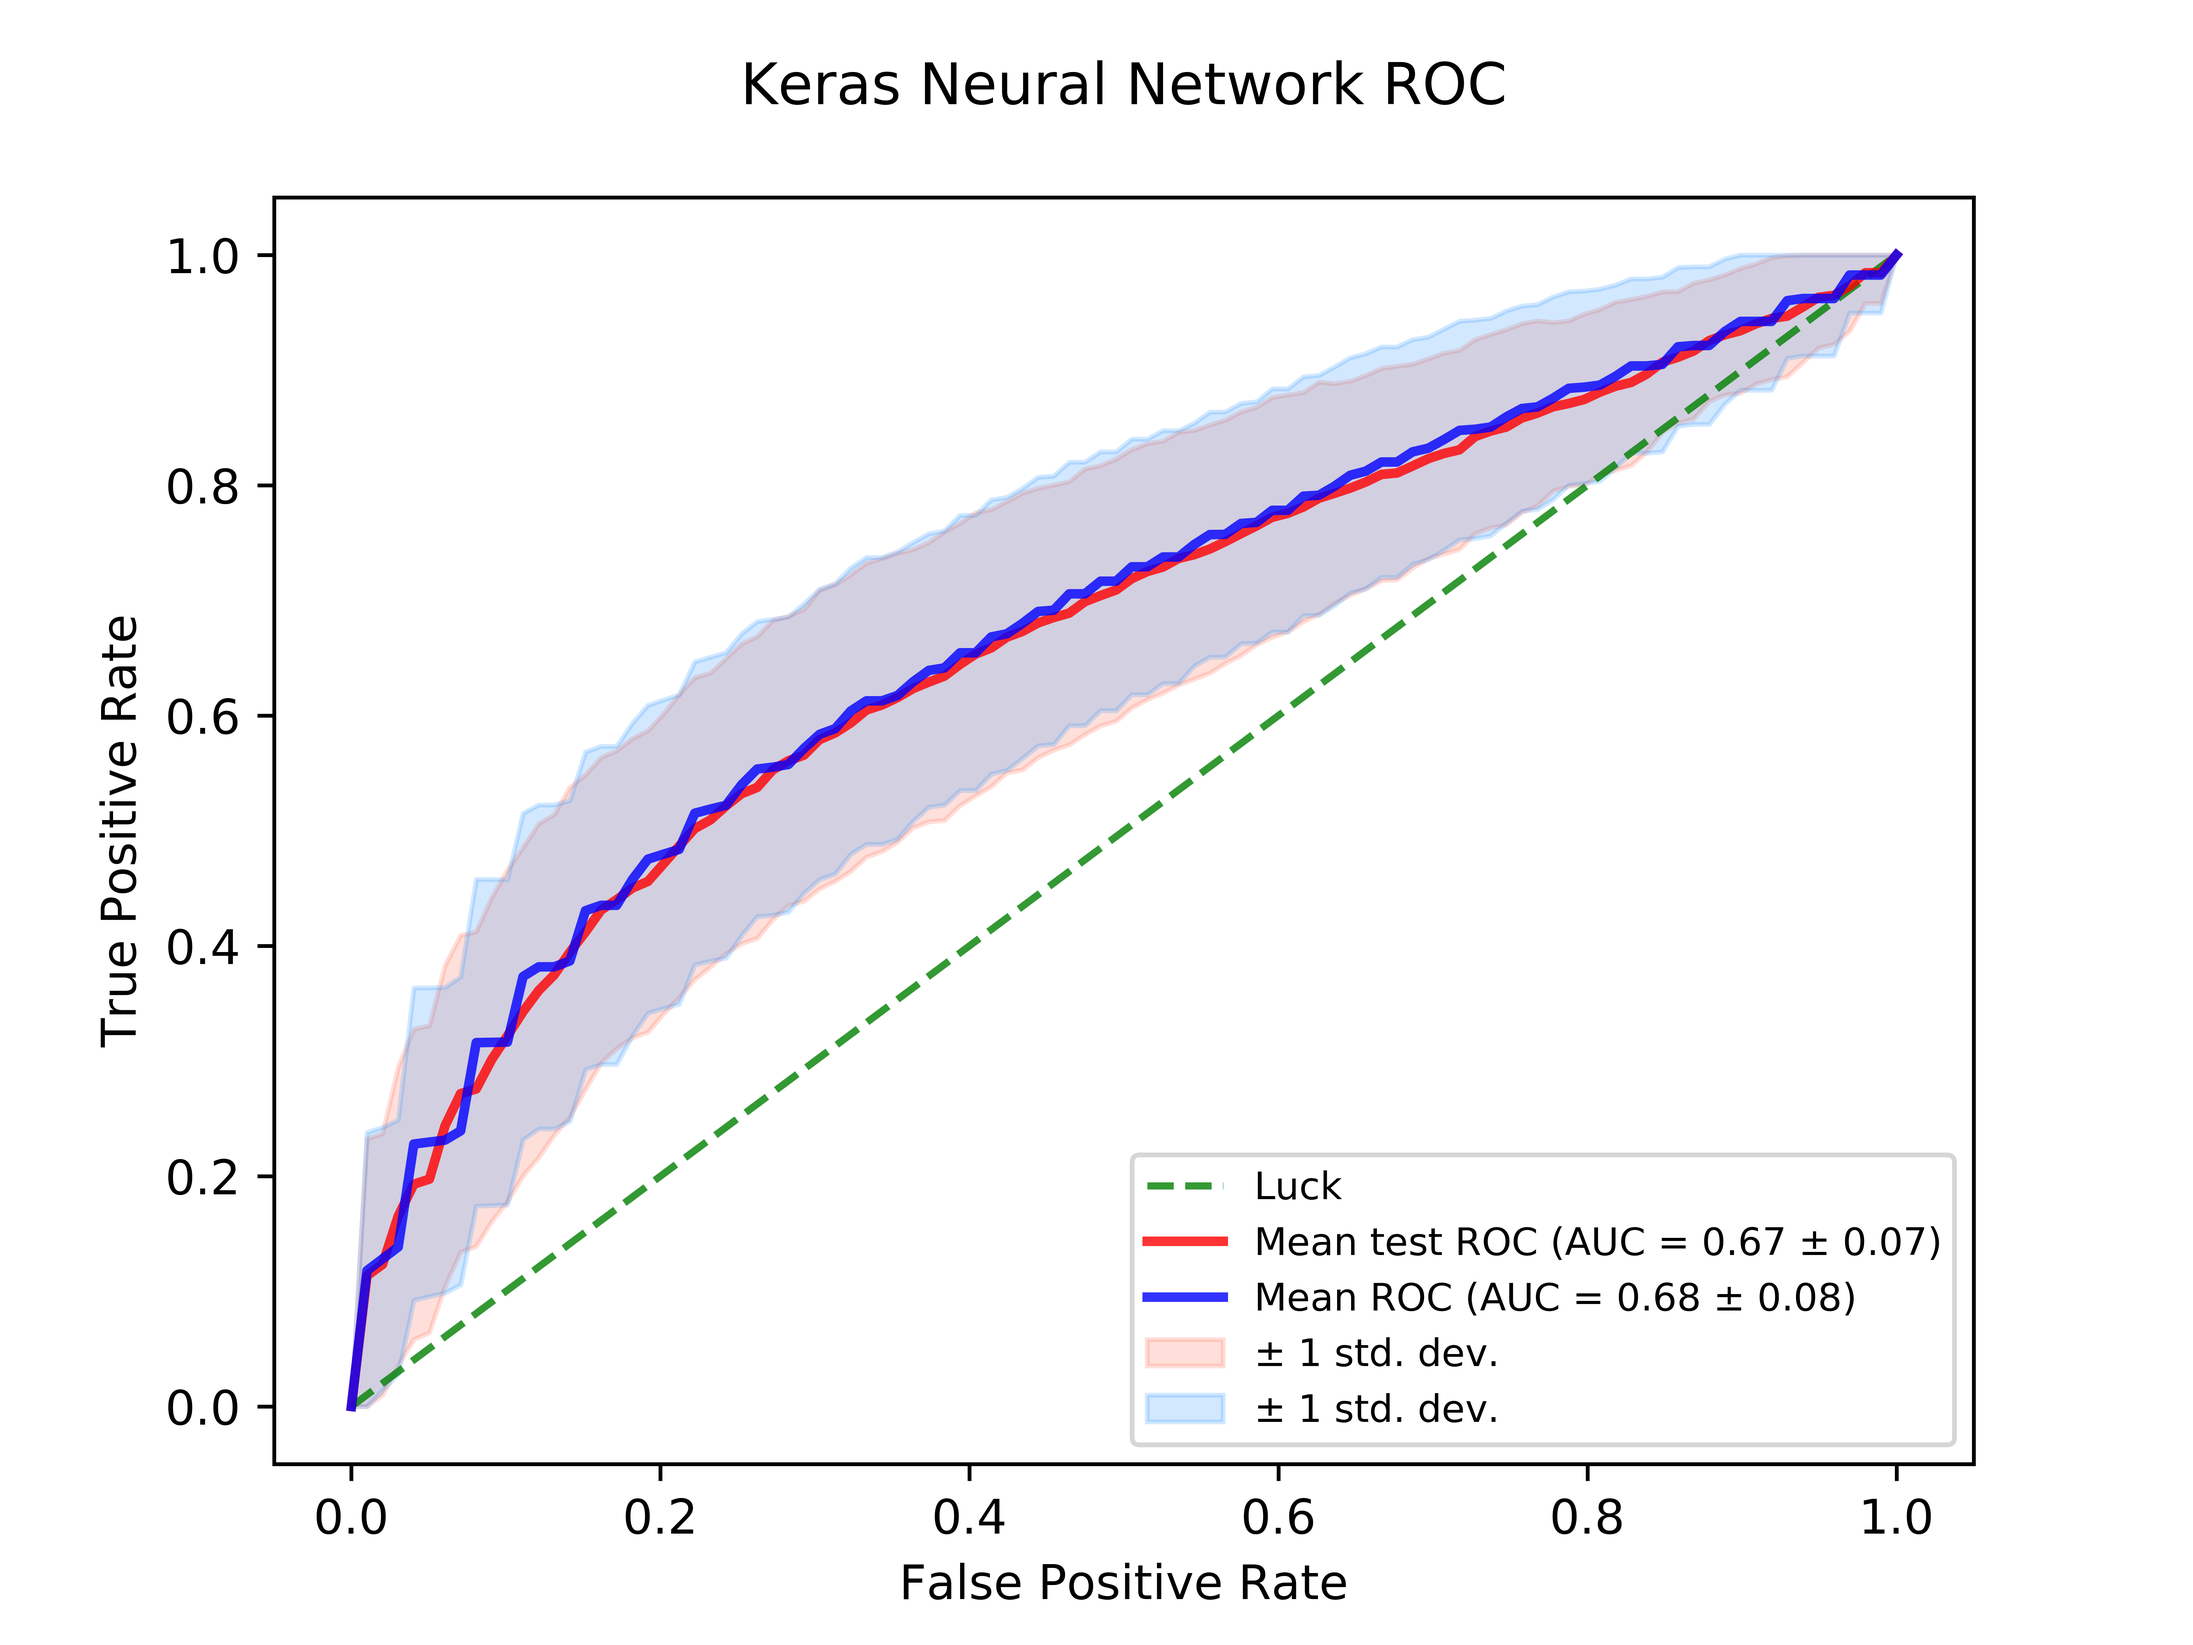
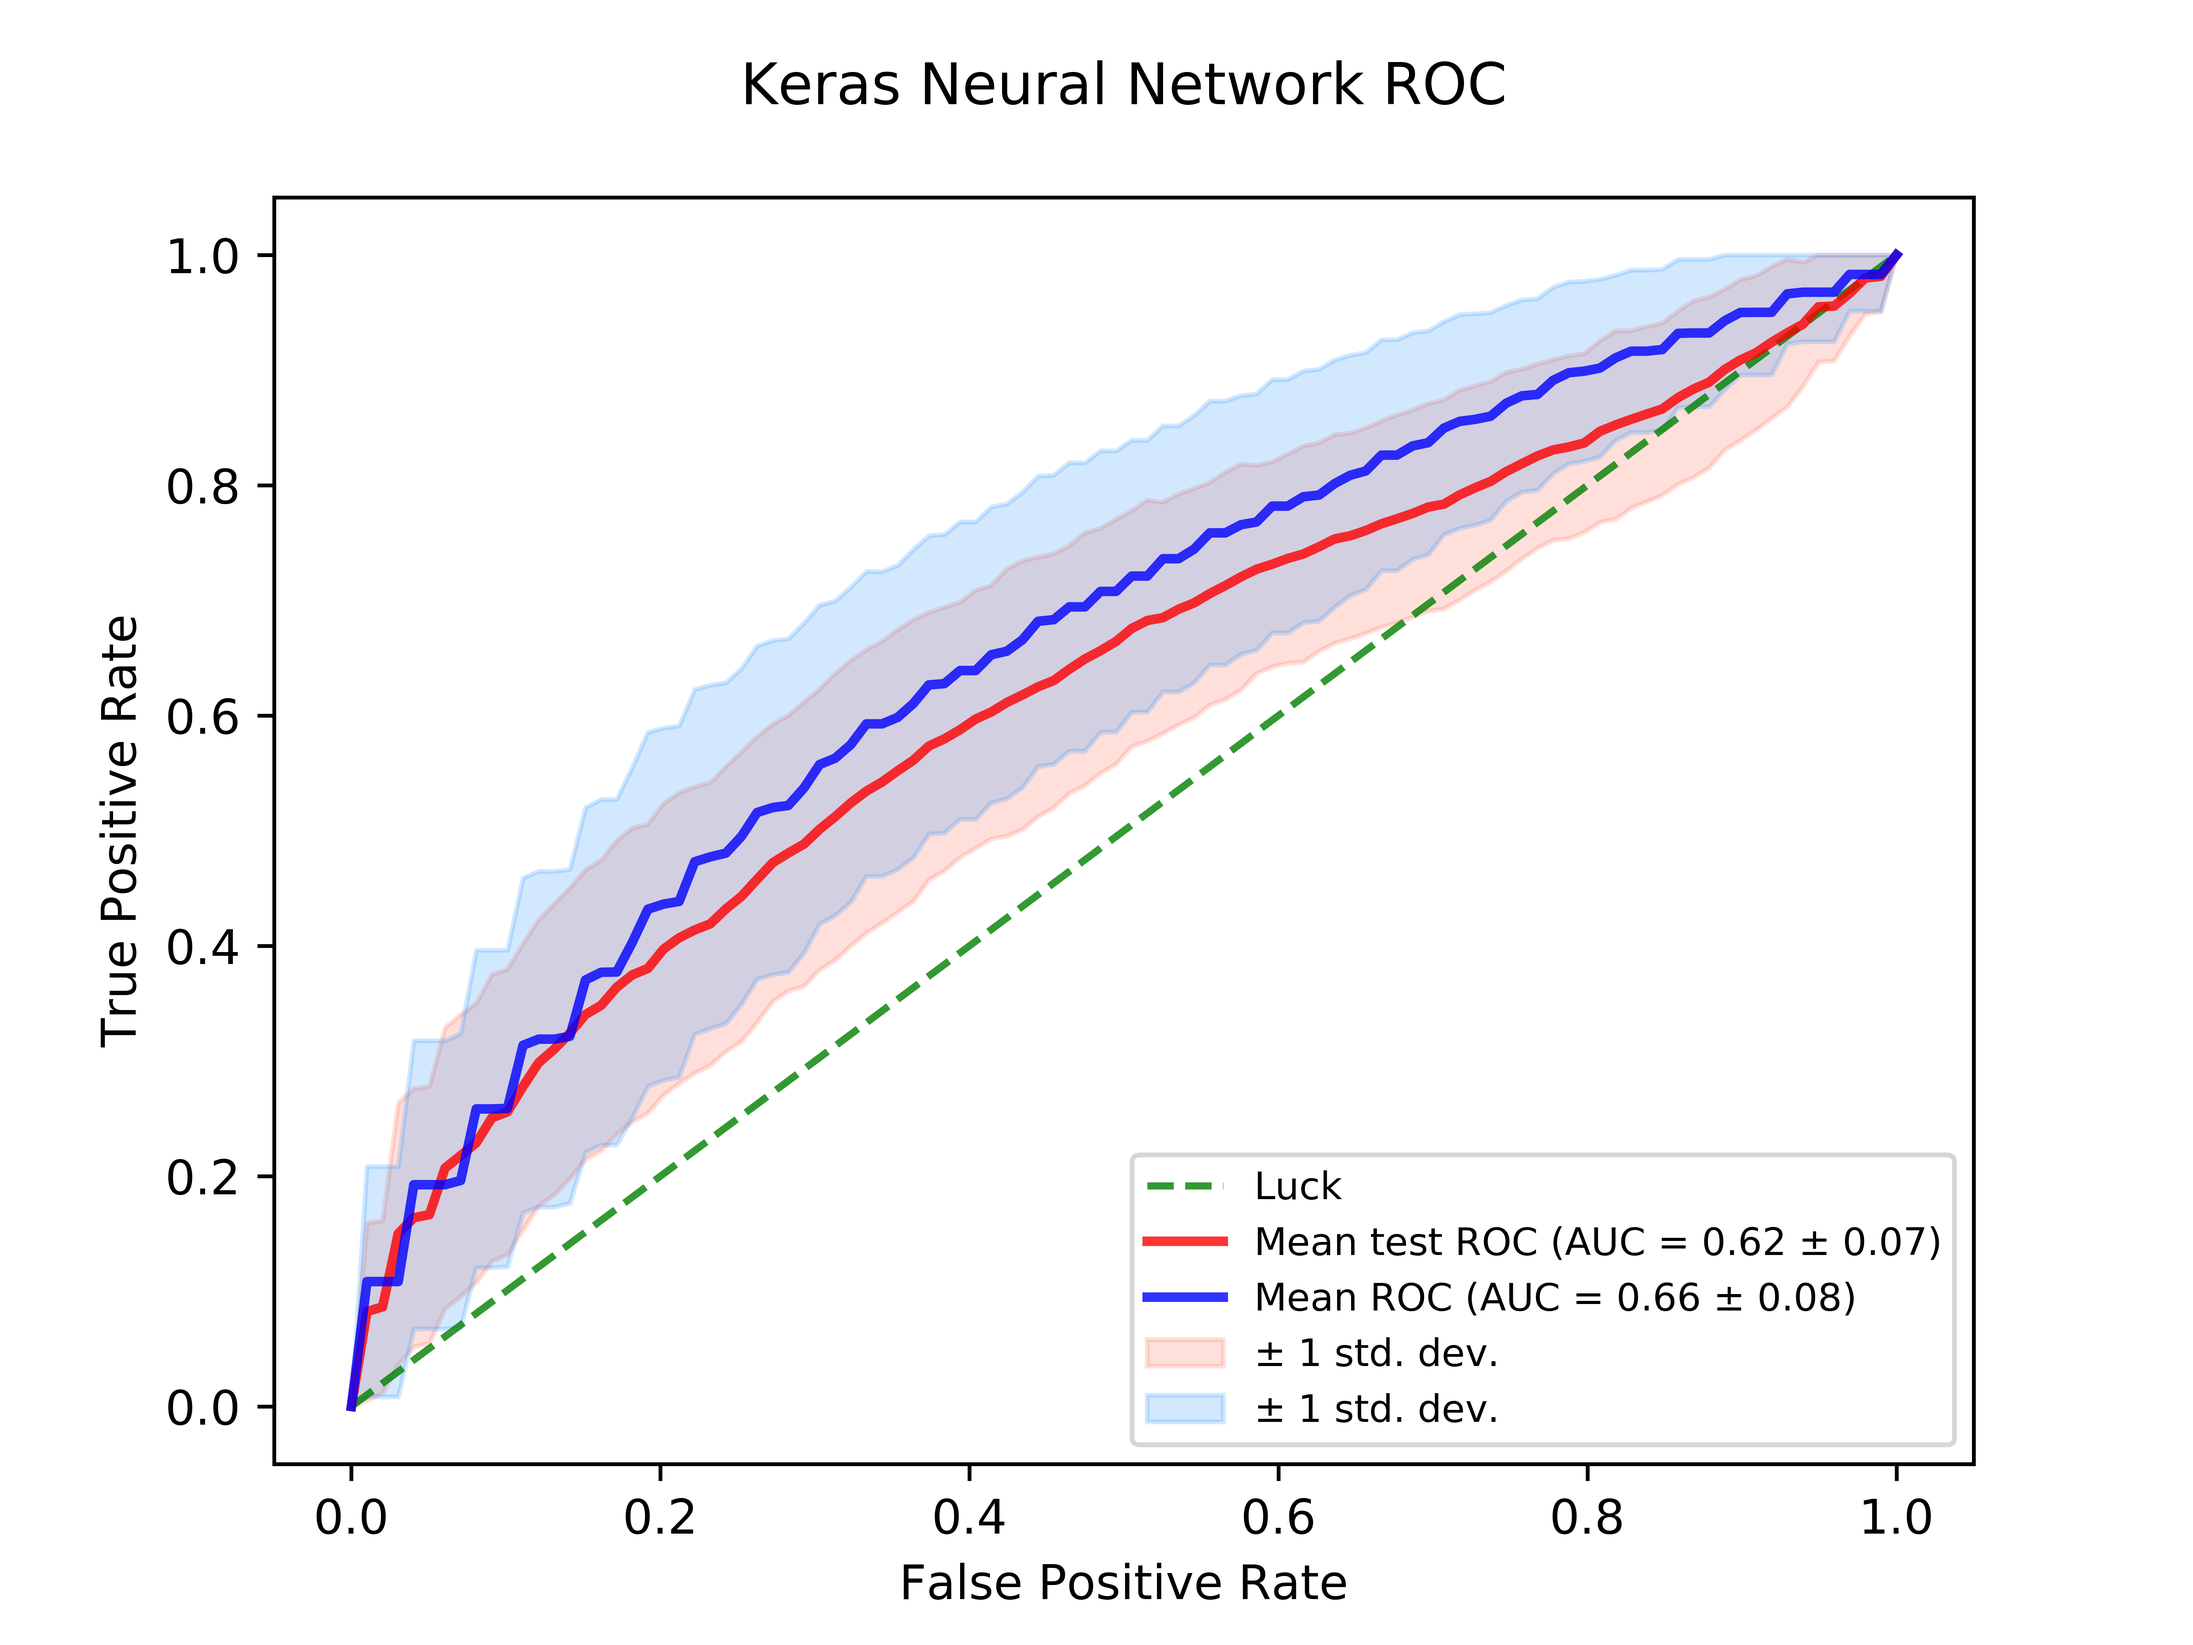
scale and epoch 20 for early stop

Changed region(s): [[0.1562, 0.1562, 0.875, 0.875]]

diff --git a/code/learning/Keras_baxter_withCV.py b/code/learning/Keras_baxter_withCV.py
@@ -14,6 +14,7 @@ from keras.layers import Dense, Dropout
 from scipy import interp
 from sklearn.metrics import roc_curve, auc
 from sklearn.model_selection import StratifiedKFold
+from sklearn.preprocessing import StandardScaler
 
 
 
@@ -56,8 +57,10 @@ num_epochs=100
 
 for epoch in range(num_epochs):
     x_train, x_test, y_train, y_test = train_test_split(x, y, test_size=0.2, shuffle=True)
+    sc = StandardScaler()
+    X = sc.fit_transform(x_train)
+    x_test = sc.transform(x_test)
 
-    X=x_train.values
     Y=y_train.values
     cv = StratifiedKFold(n_splits=5, random_state=200889)
     for train, test in cv.split(X,Y):
@@ -76,7 +79,7 @@ for epoch in range(num_epochs):
         # Compiling the ANN
         classifier.compile(optimizer='adam', loss='binary_crossentropy', metrics=['accuracy'])
         # Fitting the ANN to the Training set
-        classifier.fit(X[train], Y[train], epochs=100, batch_size=50, verbose=1)
+        classifier.fit(X[train], Y[train], epochs=20, batch_size=50, verbose=1)
 
         y_pred = classifier.predict(X[test]).ravel()
         fpr, tpr, thresholds = roc_curve(Y[test], y_pred)
@@ -109,7 +112,7 @@ mean_tpr = np.mean(tprs, axis=0)
 mean_tpr[-1] = 1.0
 mean_auc = auc(mean_fpr, mean_tpr)
 std_auc = np.std(aucs)
-plt.plot(mean_fpr, mean_tpr, color='b', label=r'Mean ROC (AUC = %0.2f $\pm$ %0.2f)' % (mean_auc, std_auc), lw=2, alpha=.8)
+plt.plot(mean_fpr, mean_tpr, color='b', label=r'Mean cross validation ROC (AUC = %0.2f $\pm$ %0.2f)' % (mean_auc, std_auc), lw=2, alpha=.8)
 std_tpr = np.std(tprs, axis=0)
 tprs_upper = np.minimum(mean_tpr + std_tpr, 1)
 tprs_lower = np.maximum(mean_tpr - std_tpr, 0)
